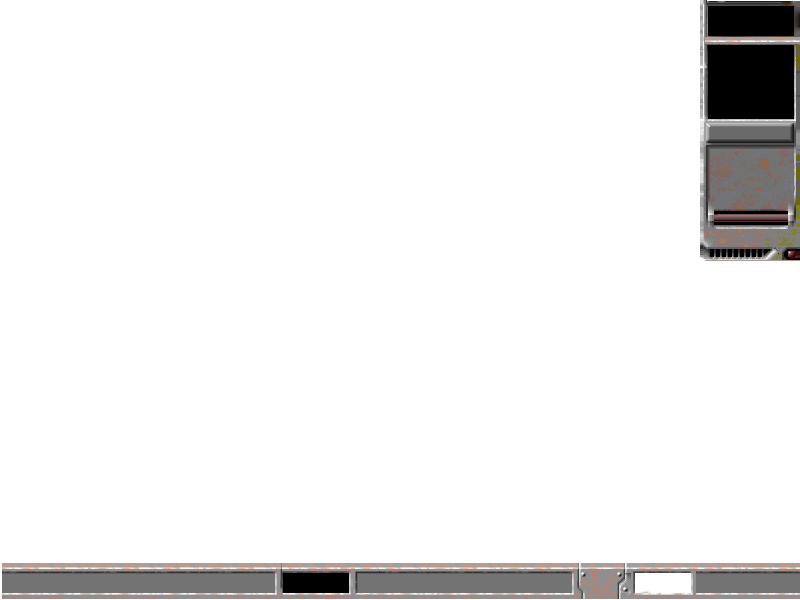
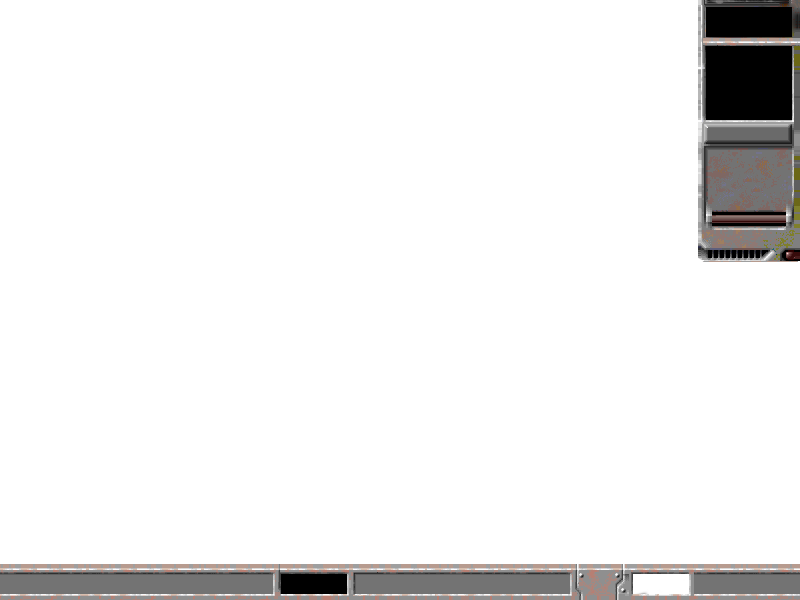
satifaccion de toc: la sideboard ahora esta bien ajustada a la pantalla

Changed region(s): [[0.0, 0.93, 1.0, 1.0], [0.875, 0.0, 1.0, 0.45]]

diff --git a/src/client/front_end/SDL_Interface/Side_Board.h b/src/client/front_end/SDL_Interface/Side_Board.h
@@ -24,7 +24,7 @@ class Side_Board : public ObjectMapaVista{
 
   Window * window;
   View& view;
-  Button * menu_button = NULL;
+  Button * quit_button = NULL;
 
   Texture * face_texture = NULL;
   Texture * weapon_texture = NULL;
@@ -34,11 +34,11 @@ class Side_Board : public ObjectMapaVista{
   Texture * weapon_label = NULL;
 
   const SDL_Rect renderQuad = {0,0,800, 600};
-  const SDL_Rect face_rect = {707,45,86,72};
-  const SDL_Rect weapon_rect = {710, 149, 81, 57};
-  const SDL_Rect unit_label_background_rect = {706, 123, 88, 20};
-  const SDL_Rect unit_label_rect = {702, 125, 96, 14};
-  const SDL_Rect weapon_label_rect = {699, 231, 100, 18};
+  const SDL_Rect face_rect = {706,46,86,72};
+  const SDL_Rect weapon_rect = {709, 150, 81, 57};
+  const SDL_Rect unit_label_background_rect = {705, 124, 88, 20};
+  const SDL_Rect unit_label_rect = {701, 126, 96, 14};
+  const SDL_Rect weapon_label_rect = {698, 232, 100, 18};
 
  public:
   Side_Board(Window * window, View& view, const std::string& color);
@@ -48,7 +48,7 @@ class Side_Board : public ObjectMapaVista{
   void scale(float scaleW, float scaleH);
 
   void load_items();
-  bool is_in_menu_button(int x, int y);
+  bool is_in_quit_button(int x, int y);
   void launch_menu_button();
 
   void load_unit_images(UnitType unitType, UnitType type);
@@ -56,22 +56,7 @@ class Side_Board : public ObjectMapaVista{
   void add_to_panel(Panel& panel);
 
   virtual void set_texture(SDL_Renderer *render){};
-  virtual void draw(SDL_Renderer *render, Camera &camera){
-    SDL_RenderCopy(render, side_board_texture->get_texture(), NULL, NULL);
-    unit_label_background->renderize(window, &unit_label_background_rect);
-    if (this->face_texture != NULL){
-      this->face_texture->renderize(window, &face_rect);
-    }
-    if (this->weapon_texture != NULL){
-      this->weapon_texture->renderize(window, &weapon_rect);
-    }
-    if (this->unit_label != NULL){
-      this->unit_label->renderize(window, &unit_label_rect);
-    }
-    if (this->weapon_label != NULL){
-      this->weapon_label->renderize(window, &weapon_label_rect);
-    }
-  }
+  virtual void draw(SDL_Renderer *render, Camera &camera);
 
  private:
   std::string label_path(const std::string& name);

diff --git a/src/client/front_end/SDL_Interface/Side_Board.cpp b/src/client/front_end/SDL_Interface/Side_Board.cpp
@@ -14,7 +14,7 @@ Side_Board::Side_Board(Window *window, View &view, const std::string &color) :
 
 Side_Board::~Side_Board() {
   this->clean_unit_images();
-  if (this->menu_button != nullptr) delete this->menu_button;
+  if (this->quit_button != nullptr) delete this->quit_button;
   if (this->unit_label_background != nullptr)
     delete this->unit_label_background;
   if (this->side_board_texture != nullptr) delete this->side_board_texture;
@@ -23,21 +23,21 @@ Side_Board::~Side_Board() {
 void Side_Board::scale(float scaleW, float scaleH) {}
 
 void Side_Board::load_items() {
-  this->menu_button = new Quit_Button(window, view);
+  this->quit_button = new Quit_Button(window, view);
   std::string unit_label_background_path =
       folder_path + "empty_label_" + color + ".png";
   this->unit_label_background = new Texture(unit_label_background_path, window);
 
 }
-bool Side_Board::is_in_menu_button(int x, int y) {
-  return menu_button->inRectangle(x, y);
+bool Side_Board::is_in_quit_button(int x, int y) {
+  return quit_button->inRectangle(x, y);
 }
 void Side_Board::add_to_panel(Panel &panel) {
   panel.add(this);
-  panel.add(menu_button);
+  panel.add(quit_button);
 }
 void Side_Board::launch_menu_button() {
-  this->menu_button->handle_event();
+  this->quit_button->handle_event();
 }
 std::string Side_Board::label_path(const std::string &name) {
   return (folder_path + "unit_label_" + name + "_" + color + ".png");
@@ -172,5 +172,21 @@ void Side_Board::clean_unit_images() {
   if (weapon_label != nullptr) {
     delete weapon_label;
     weapon_label = nullptr;
+  }
+}
+void Side_Board::draw(SDL_Renderer *render, Camera &camera) {
+  SDL_RenderCopy(render, side_board_texture->get_texture(), NULL, NULL);
+  unit_label_background->renderize(window, &unit_label_background_rect);
+  if (this->face_texture != NULL){
+    this->face_texture->renderize(window, &face_rect);
+  }
+  if (this->weapon_texture != NULL){
+    this->weapon_texture->renderize(window, &weapon_rect);
+  }
+  if (this->unit_label != NULL){
+    this->unit_label->renderize(window, &unit_label_rect);
+  }
+  if (this->weapon_label != NULL){
+    this->weapon_label->renderize(window, &weapon_label_rect);
   }
 }

diff --git a/src/client/front_end/SDL_Interface/Buttons/Quit_Button.h b/src/client/front_end/SDL_Interface/Buttons/Quit_Button.h
@@ -17,7 +17,7 @@ class Quit_Button : public Button {
       "../src/client/front_end/Images/Interface/quit_button_pressed.bmp";
  public:
   Quit_Button(Window * window, View& view) : view(view){
-    renderQuad = {635, 573, 56, 20};
+    renderQuad = {633, 574, 56, 20};
     this->window = window;
     this->load_texture_up(path_up);
     this->load_texture_down(path_down);

diff --git a/src/client/model/Model.cpp b/src/client/model/Model.cpp
@@ -61,7 +61,7 @@ void Model::leftClick(int x, int y) {
       view.get_present_menu()->handle_click(x, y);
     }
   }
-  if (view.get_side_board()->is_in_menu_button(x, y)) {
+  if (view.get_side_board()->is_in_quit_button(x, y)) {
     if (view.get_present_menu() != nullptr) {
       view.free_menu();
     }
